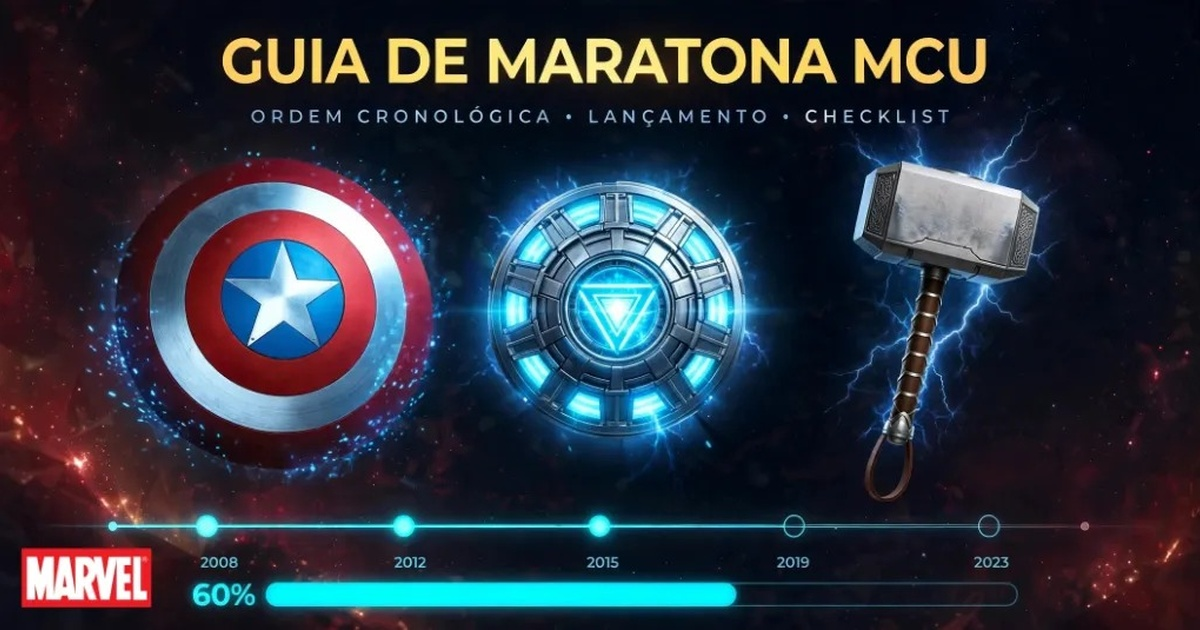
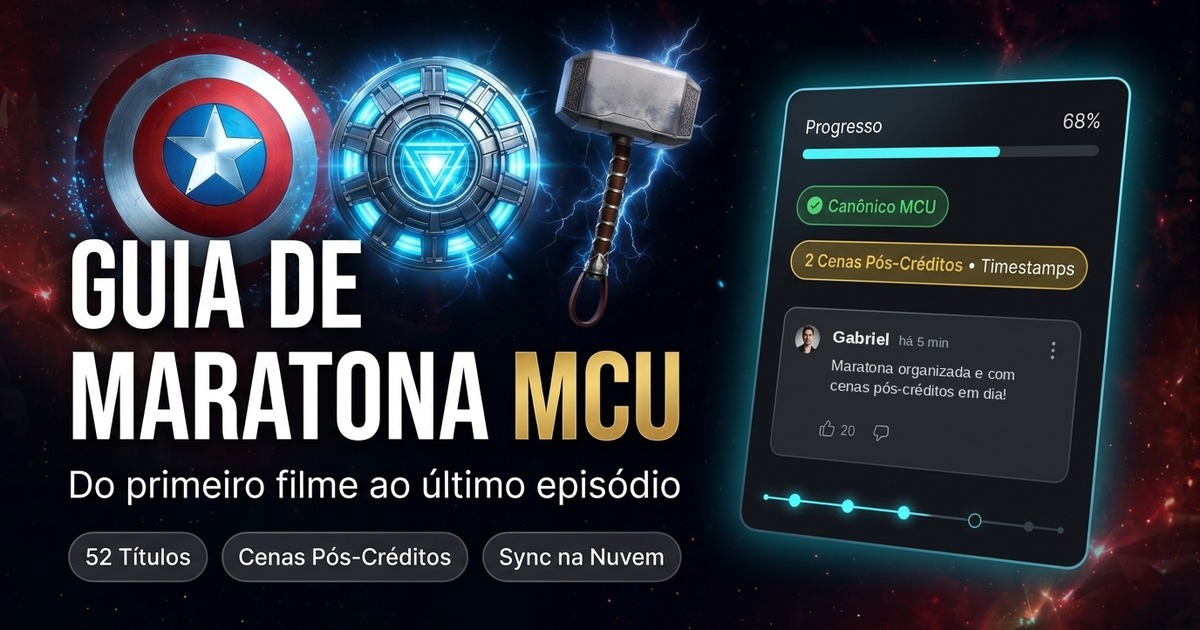
chore: update site OpenGraph preview and add GitHub Social Preview image

diff --git a/index.html b/index.html
@@ -7,8 +7,8 @@
 
   <!-- Primary Meta Tags -->
   <meta name="title" content="Guia de Maratona MCU - Marvel Studios">
-  <meta name="description" content="Guia completo com ordem cronológica, ordem de lançamento, trailers dublados e legendados, e checklist de progresso para maratonar o Universo Cinematográfico Marvel.">
-  <meta name="image" content="https://flou-ainan.github.io/mcu-guide/og-image-1200x630.jpg">
+  <meta name="description" content="52 títulos (37 filmes e 15 séries) em ordem cronológica ou de lançamento, com cenas pós-créditos e timestamps, trailers, progresso salvo na nuvem e comentários da comunidade.">
+  <meta name="image" content="https://flou-ainan.github.io/mcu-guide/og-image-1200x630.jpg?v=2">
   <meta name="theme-color" content="#E23636">
 
   <!-- Open Graph / Facebook / Telegram / WhatsApp -->
@@ -17,25 +17,25 @@
   <meta property="og:locale" content="pt_BR">
   <meta property="og:url" content="https://flou-ainan.github.io/mcu-guide/">
   <meta property="og:title" content="Guia de Maratona MCU - Marvel Studios">
-  <meta property="og:description" content="Ordem cronológica, lançamento, trailers dublados/legendados e checklist interativo de progresso do Universo Cinematográfico Marvel.">
-  <meta property="og:image" content="https://flou-ainan.github.io/mcu-guide/og-image-1200x630.jpg">
-  <meta property="og:image:secure_url" content="https://flou-ainan.github.io/mcu-guide/og-image-1200x630.jpg">
+  <meta property="og:description" content="52 títulos (37 filmes e 15 séries) em ordem cronológica e de lançamento, cenas pós-créditos com timestamps, sync na nuvem e comentários em Markdown.">
+  <meta property="og:image" content="https://flou-ainan.github.io/mcu-guide/og-image-1200x630.jpg?v=2">
+  <meta property="og:image:secure_url" content="https://flou-ainan.github.io/mcu-guide/og-image-1200x630.jpg?v=2">
   <meta property="og:image:type" content="image/jpeg">
   <meta property="og:image:width" content="1200">
   <meta property="og:image:height" content="630">
-  <meta property="og:image:alt" content="Guia de Maratona MCU - Ordem Cronológica, Lançamento e Checklist">
+  <meta property="og:image:alt" content="Guia de Maratona MCU - 52 Títulos, Cenas Pós-Créditos e Sync na Nuvem">
 
   <!-- Telegram & Schema.org microdata fallbacks -->
   <meta itemprop="name" content="Guia de Maratona MCU - Marvel Studios">
-  <meta itemprop="description" content="Ordem cronológica, lançamento, trailers dublados/legendados e checklist interativo de progresso do Universo Cinematográfico Marvel.">
-  <meta itemprop="image" content="https://flou-ainan.github.io/mcu-guide/og-image-1200x630.jpg">
+  <meta itemprop="description" content="52 títulos (37 filmes e 15 séries) em ordem cronológica e de lançamento, cenas pós-créditos com timestamps, sync na nuvem e comentários em Markdown.">
+  <meta itemprop="image" content="https://flou-ainan.github.io/mcu-guide/og-image-1200x630.jpg?v=2">
 
   <!-- Twitter / X -->
   <meta name="twitter:card" content="summary_large_image">
   <meta name="twitter:url" content="https://flou-ainan.github.io/mcu-guide/">
   <meta name="twitter:title" content="Guia de Maratona MCU - Marvel Studios">
-  <meta name="twitter:description" content="Ordem cronológica, lançamento, trailers dublados/legendados e checklist interativo de progresso do Universo Cinematográfico Marvel.">
-  <meta name="twitter:image" content="https://flou-ainan.github.io/mcu-guide/og-image-1200x630.jpg">
+  <meta name="twitter:description" content="52 títulos (37 filmes e 15 séries) em ordem cronológica e de lançamento, cenas pós-créditos com timestamps, sync na nuvem e comentários em Markdown.">
+  <meta name="twitter:image" content="https://flou-ainan.github.io/mcu-guide/og-image-1200x630.jpg?v=2">
   <!-- Performance: Preconnect & DNS Prefetch -->
   <link rel="preconnect" href="https://m.media-amazon.com" crossorigin>
   <link rel="dns-prefetch" href="https://m.media-amazon.com">

diff --git a/docs/dev-docs/devlog/step_09_link_previews.md b/docs/dev-docs/devlog/step_09_link_previews.md
@@ -1,0 +1,43 @@
+# Step 09 — Website OpenGraph Preview & GitHub Social Preview
+
+**Date:** 2026-11-11  
+**Plan:** `plan_09_link_previews.md`  
+**Status:** Done — pushed to `origin/main`
+
+---
+
+## What Changed
+
+### 1. Website OpenGraph Preview (`og-image-1200x630.jpg` + `index.html`)
+
+- Replaced `og-image-1200x630.jpg` with the owner-selected **Variation 2** artwork (`1200×630` JPEG), showing the MCU triad alongside an app UI mockup featuring progress bar (`68%`), `Canônico MCU` badge, `2 Cenas Pós-Créditos • Timestamps`, and a Portuguese comment card (`Gabriel há 5 min`).
+- Patched the small comment box placeholder copy inside the generated image via Pillow (matching background `#26292E` and `-3.05°` tilt) so all visible text is natural Brazilian Portuguese.
+- Updated `index.html` OpenGraph, Twitter Card, primary `<meta>`, and Schema.org tags:
+  - Added `?v=2` query string to `og-image-1200x630.jpg` URLs to bust Telegram/WhatsApp/social scraper caches.
+  - Updated descriptions to reflect current capabilities: 52 titles (37 movies + 15 series), chronological & release order, post-credits scenes with timestamps, cloud sync, and Markdown comments.
+
+### 2. GitHub Repository Social Preview (`docs/assets/github-social-preview.jpg`)
+
+- Generated a distinct **GitHub Social Preview** (`1280×640` JPEG, ~192 KB, 2:1 ratio) visually inspired by Variation 2 while clearly branding the open-source GitHub repository (`flou-ainan / mcu-guide` with Octocat mark, `"Código aberto • SPA sem build • Offline-First & Cloud Sync"`, stack pills `Vanilla JS`, `Tailwind CSS`, `Supabase`, `GitHub Pages`, and floating JSON snippet card).
+- Ready for manual upload under **GitHub → Settings → General → Social preview**.
+
+---
+
+## Files Touched
+
+| File | Change |
+|---|---|
+| `og-image-1200x630.jpg` | Replaced with `1200×630` Variation 2 artwork (PT-BR comment patch) |
+| `index.html` | Updated OG/Twitter/Schema descriptions and `og-image-1200x630.jpg?v=2` |
+| `docs/assets/github-social-preview.jpg` | Added `1280×640` GitHub repository social preview (~192 KB) |
+| `docs/dev-docs/planning/plan_09_link_previews.md` | Plan doc (marked `done`) |
+| `docs/dev-docs/devlog/step_09_link_previews.md` | This devlog |
+| `docs/dev-docs/ROADMAP.md` | Added Steps 08 & 09 |
+| `docs/PROJECT.md` | Updated preview asset descriptions |
+
+---
+
+## Verification
+
+- Visual inspection via `read_file` confirmed clean PT-BR copy, exact pixel dimensions (`1200×630` and `1280×640`), and safe margins on both images.
+- `grep -n "og-image" index.html` confirmed all 5 meta image tags consistently point to `og-image-1200x630.jpg?v=2`.

diff --git a/docs/dev-docs/ROADMAP.md b/docs/dev-docs/ROADMAP.md
@@ -2,7 +2,7 @@
 
 **The one list of what is left.** Keep this list updated as tasks are planned and executed.
 
-**Last updated:** 2026-11-11 (step 07 published to GitHub Pages: unclipped card badges, collapsible Markdown toolbar + `Markdown Permitido` badge, `#insert-image-modal` with preview & ImgBB info).
+**Last updated:** 2026-11-11 (step 09 published: updated live site `og-image-1200x630.jpg` + `?v=2` OG meta tags and added GitHub Social Preview `docs/assets/github-social-preview.jpg`).
 
 ## Now: external configuration
 
@@ -56,6 +56,12 @@
   - Removed `content-visibility: auto` paint containment on `.mcu-timeline-card` so floating `Canônico MCU` / `Ignorável` badges render completely unclipped.
   - Added `Markdown Permitido` badge beside `Escrever / Preview` tabs and hid the formatting toolbar behind a discrete `Formatar` toggle button (`toggleMarkdownToolbar`).
   - Replaced `Img` snippet insertion with `#insert-image-modal` featuring an `(i)` ImgBB hosting recommendation, description input, URL input with live preview, and direct Markdown insertion; published to `origin/main` (GitHub Pages).
+- **Step 08 (2026-11-11, Plan 08):**
+  - Corrected *O Incrível Hulk* `post_credits` (`count: 0 -> 1`, Tony Stark / Avengers Initiative stinger at `~01:47:00`) in `mcu_data.json` and `data.js`.
+  - Overhauled `README.md` with badges, full feature tables, Quick Start, clean `docs/assets/readme-preview.png` (`1280x720`), and external `🌐 Acesse o Guia →` link.
+- **Step 09 (2026-11-11, Plan 09):**
+  - Replaced `og-image-1200x630.jpg` with Variation 2 (MCU Trinity + live app UI mockup with PT-BR comment box, `Canônico MCU`, `2 Cenas Pós-Créditos • Timestamps`, and `68%` progress bar) and bumped `index.html` OG/Twitter/Schema meta tags to `?v=2` with updated feature descriptions.
+  - Created distinct developer-focused `docs/assets/github-social-preview.jpg` (`1280x640`, ~192 KB) for manual upload in GitHub Settings → Social preview.
 
 ## Plans at a glance
 
@@ -68,3 +74,5 @@
 | [plan_05_markdown_links_edit_pagespeed_postcredits.md](planning/plan_05_markdown_links_edit_pagespeed_postcredits.md) | done |
 | [plan_06_watched_filter_and_profile_customization.md](planning/plan_06_watched_filter_and_profile_customization.md) | done |
 | [plan_07_badge_clip_toolbar_image_modal.md](planning/plan_07_badge_clip_toolbar_image_modal.md) | done |
+| [plan_08_readme_showcase_and_preview.md](planning/plan_08_readme_showcase_and_preview.md) | done |
+| [plan_09_link_previews.md](planning/plan_09_link_previews.md) | done |

diff --git a/docs/dev-docs/planning/plan_09_link_previews.md b/docs/dev-docs/planning/plan_09_link_previews.md
@@ -1,0 +1,22 @@
+# Plan 09 — OpenGraph & GitHub Social Preview Overhaul
+
+**Status:** done  
+**Date:** 2026-11-11
+
+## Goal
+
+1. Replace the published website's OpenGraph link preview (`og-image-1200x630.jpg`) with the chosen **Variation 2** artwork (`1200×630`), fixing the small placeholder comment text in the UI mockup into natural Brazilian Portuguese and refreshing OpenGraph/Twitter meta tags (`?v=2` cache-bust + updated feature description) in `index.html`.
+2. Create a distinct **GitHub Repository Social Preview** (`docs/assets/github-social-preview.jpg`, `1280×640`, 2:1 ratio, under 1 MB) visually inspired by Variation 2 but clearly styled as an open-source GitHub repository (`flou-ainan / mcu-guide`, tech stack badges, developer aesthetic) for manual upload in GitHub Repository Settings → Social preview.
+
+## Scope & Files
+
+- `og-image-1200x630.jpg` — Replaced with fixed & resized Variation 2 (`1200×630` JPEG).
+- `index.html` — Update `og:image`, `og:image:secure_url`, `twitter:image`, `itemprop="image"`, `meta[name="image"]` to include `?v=2` and update description meta tags to reflect current features.
+- `docs/assets/github-social-preview.jpg` — New `1280×640` JPEG (~192 KB) tailored for GitHub Social Preview.
+- `docs/PROJECT.md`, `docs/dev-docs/ROADMAP.md`, `docs/dev-docs/devlog/step_09_link_previews.md`, `docs/dev-docs/chat-context.md`.
+
+## Verification
+
+- Inspect both generated/processed images visually via `read_file` and verify exact pixel dimensions (`1200×630` and `1280×640`).
+- Verify `index.html` meta tag consistency via `grep`.
+- Commit and push to `origin/main` so GitHub Pages serves the updated OpenGraph preview.

diff --git a/docs/PROJECT.md b/docs/PROJECT.md
@@ -75,7 +75,8 @@ Interactive chronological and release guide for Marvel Cinematic Universe movies
 | `docs/assets/readme-preview.png` | - | Clean 1280x720 desktop screenshot of live site for `README.md` |
 | `robots.txt` | 5 | Crawler directive allowing TelegramBot and social media link previews |
 | `hero-banner.webp` | - | High-res (2048x718) MCU collage banner |
-| `og-image-1200x630.jpg` | - | Standard OpenGraph social preview image |
+| `og-image-1200x630.jpg` | - | OpenGraph/Telegram/WhatsApp social preview (`1200x630`) showcasing MCU triad + app UI mockup (canon badge, post-credits timestamps, progress bar, comments) |
+| `docs/assets/github-social-preview.jpg` | - | Open-source GitHub Repository Social Preview (`1280x640`, ~192 KB) for manual upload in GitHub Repository Settings |
 | `AGENTS.md` | 40 | Agent workflows, rules, and documentation standards |
 | `.gitignore` | 15 | Local excludes: ignores `docs/dev-docs/chat-context.md`, temp files, pycache |
 | `.ai-memory.toml` | 2 | Project binding for ai-memory MCP |
